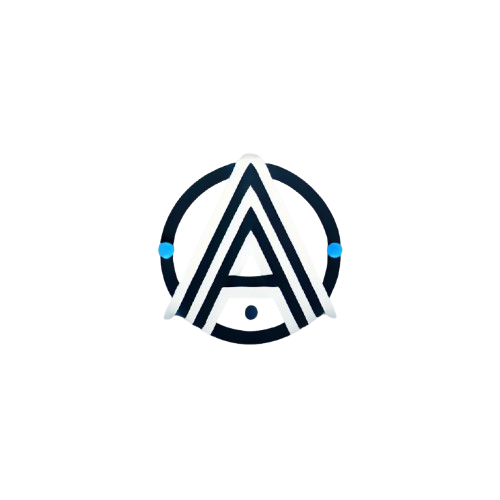
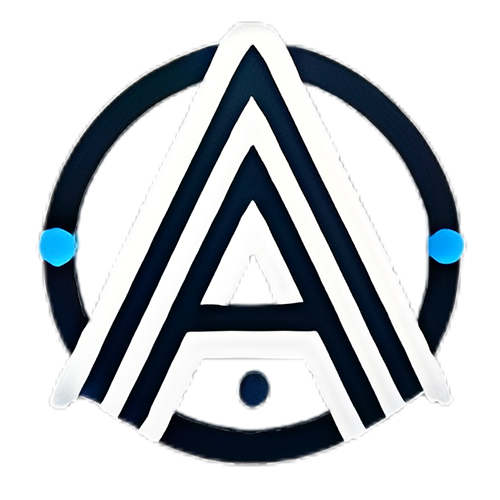
Styled header and homepage image

Changed region(s): [[0.09, 0.09, 0.93, 0.96], [0.06, 0.09, 0.45, 0.72], [0.48, 0.03, 0.51, 0.06]]

diff --git a/client/src/pages/Home/index.jsx b/client/src/pages/Home/index.jsx
@@ -13,7 +13,6 @@ import "./index.css";
 import { FaGithub } from "react-icons/fa";
 import HomeImage from "../../assets/images/home.jpg";
 import GoogleImage from "../../assets/images/google.png";
-import AlphaIcon from "../../assets/alphaIcon.png";
 
 function Home() {
   const { user, loginWithGoogle } = useAuth();
@@ -42,7 +41,7 @@ function Home() {
                 Connect, share, and engage with the world around you.
               </p>
               <img
-                src={AlphaIcon}
+                src={HomeImage}
                 alt="Digital world image"
                 className="home-image"
               />

diff --git a/client/src/components/Header/index.css b/client/src/components/Header/index.css
@@ -76,7 +76,7 @@
 }
 
 .alpha-icon {
-  height: 5rem;
+  height: 1.7rem;
   transition: background 0.3s, transform 0.6s ease-in-out;
 }
 
